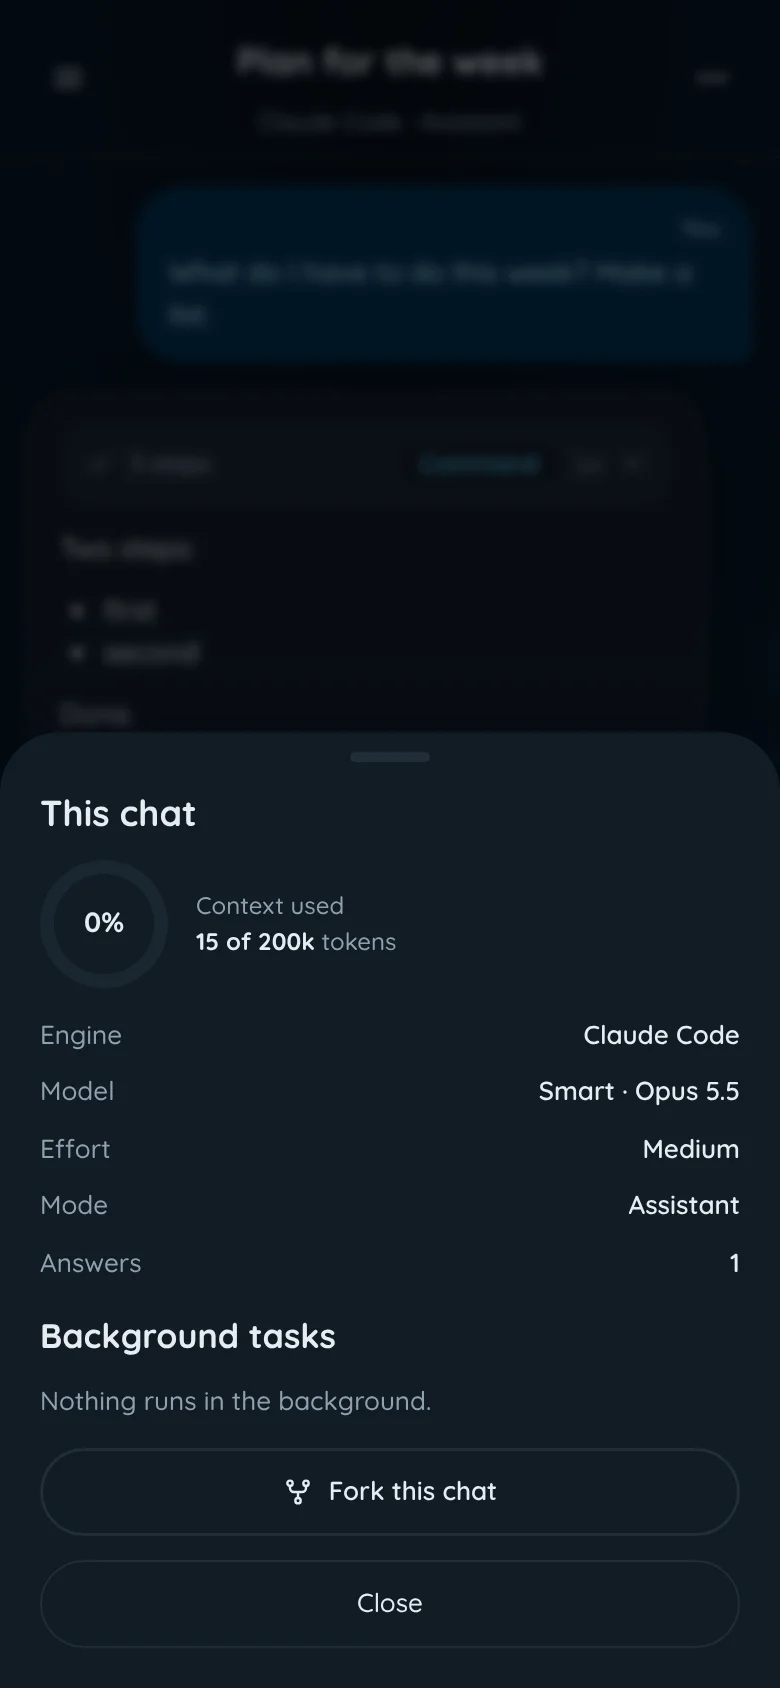
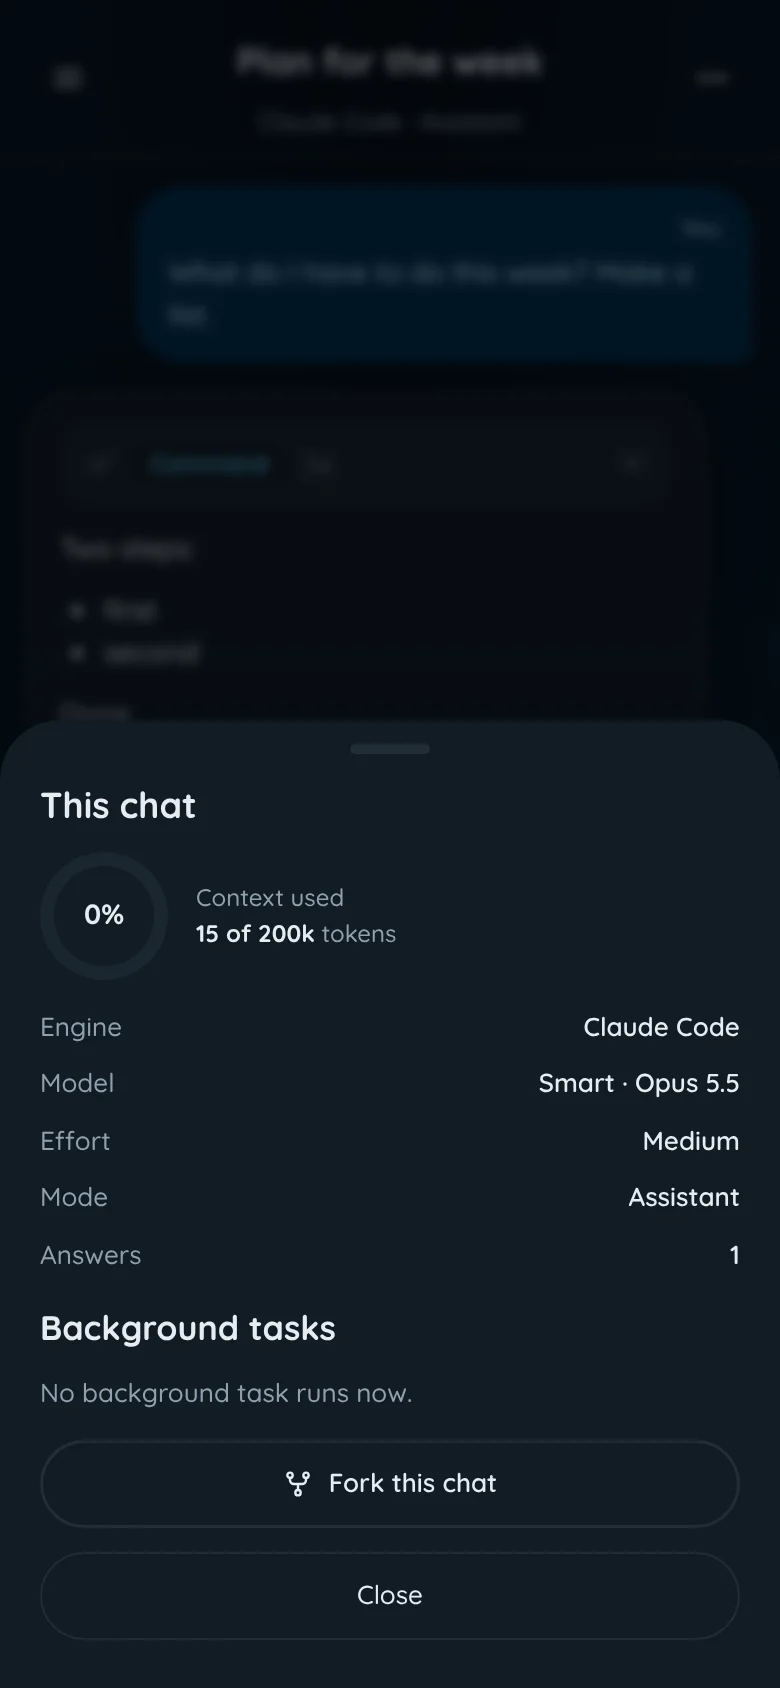
fix(web): stack every button of a phone sheet, and update the guide
The shared sheet made the Close button of each question dialog full
width, while the buttons of its button row stayed narrow. Now a button
row in a phone sheet stacks at full width too, as the EVE guide says.

The guide now says that a computer shows a box, a phone a sheet, and
where the switch lives. The phone captures of the chat details follow
the shared sheet padding. The step test allows a tall box that reaches
its 16 px margin.

Claude-Session: https://claude.ai/code/session_011YsmyhxdSEbr6dQVFuQMZC

diff --git a/test/e2e/web-ui.spec.ts b/test/e2e/web-ui.spec.ts
@@ -3127,7 +3127,7 @@ test("a tap on a stored step opens its whole input and output, each in a fold", 
   // A computer shows a centred box, and a phone a bottom sheet (issue 644).
   const gapBelow = (page.viewportSize()?.height ?? 0) - (await restingBottom(dialog));
   if (test.info().project.name === "phone") expect(gapBelow).toBeLessThan(1);
-  else expect(gapBelow).toBeGreaterThan(16);
+  else expect(gapBelow).toBeGreaterThanOrEqual(16);
   await expect(dialog.locator(".facts")).toContainText("The shell");
   // The input shows each field once, so the short copy of the command does not show above it.
   await expect(dialog.locator(".step-fields dt")).toHaveText(["command"]);

diff --git a/src/frontends/web/styles.css b/src/frontends/web/styles.css
@@ -1362,6 +1362,11 @@ textarea {
   .phone-sheet .message-actions button {
     width: 100%;
   }
+
+  .phone-sheet .button-row {
+    flex-direction: column;
+    align-items: stretch;
+  }
 }
 
 @keyframes sheet-in {

diff --git a/docs/design/eve/README.md b/docs/design/eve/README.md
@@ -141,7 +141,7 @@ Spacing uses steps of 4 px. Common gaps are 8, 10, 12, 16 and 20 px. Compact den
   - While a turn runs and the box is empty, the pearl shows a Stop square in `--ink`, at the same place. The microphone sits beside it with no fill, in `--muted`.
 - **Visor:** `radial-gradient(ellipse at 50% 22%, var(--visor), var(--visor2) 72%)`.
 - **Eyes:** `filter: drop-shadow(0 0 0.05em var(--eye)) drop-shadow(0 0 0.14em var(--glow))` on the wrapper of the two eyes, so that every eye shape glows the same way.
-- **Scrim behind a dialog:** `oklch(0.25 0.03 h / 0.32)`. Dark: `oklch(0.05 0.01 h / 0.55)`. The chat details sheet and the new-device, schedule and update dialogs add a 3 px backdrop blur.
+- **Scrim behind a dialog:** `oklch(0.25 0.03 h / 0.32)`. Dark: `oklch(0.05 0.01 h / 0.55)`. On a phone, the scrim of a bottom sheet adds a 3 px backdrop blur. On a computer, the new-device, schedule and update dialogs add it too.
 
 ## Layout
 
@@ -158,7 +158,7 @@ A grid of four columns: nav rail (76 px), list (300 px), main area (flexible) an
 
 From top to bottom: the header (back or menu button, title and subtitle, more button), the content, the composer, and a bottom tab bar with Chats, Projects, Files, Schedules and Eva. The Eva tab is the nav visor, with the label "Eva". It opens the notification center, which has a button to Settings. List pages use a large 30 px title.
 
-Dialogs become bottom sheets on a phone. Their buttons stack at full width.
+Dialogs are centred boxes on a computer and bottom sheets on a phone. Their buttons stack at full width in a sheet. `phoneDialogForm` in `client/Dialog.tsx` picks the phone form of every dialog.
 
 ## Components
 
